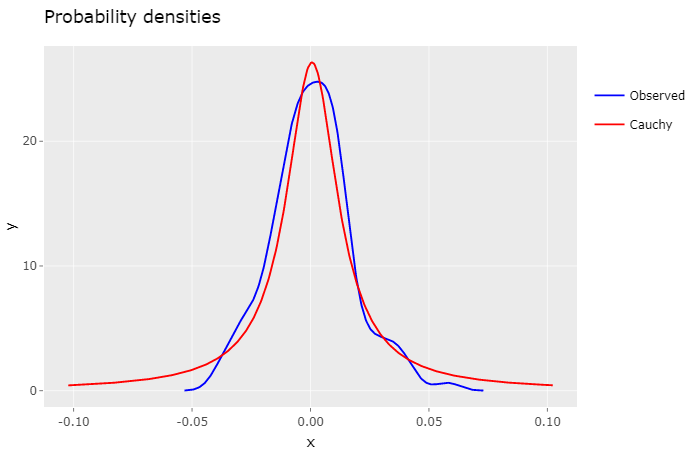
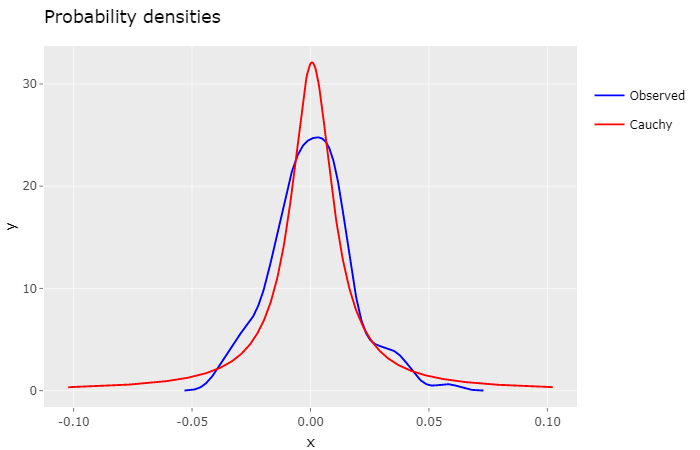
2019-12-23-stock-option-pricing-inference.md - Updating analysis using MLE - Article conclusions unchanged

diff --git a/_posts/2019-12-23-stock-option-pricing-inference.md b/_posts/2019-12-23-stock-option-pricing-inference.md
@@ -111,13 +111,16 @@ interpolate <- function(df, min, max, n) {
   return (pol)
 }
 
-# measures the difference between two density functions
-dist_diff <- function(dist1, dist2) {
-  start <- max(min(dist1[["x"]]), min(dist2[["x"]]))
-  end <- min(max(dist1[["x"]]), max(dist2[["x"]]))
-  pol1 <- interpolate(dist1, start, end, 511)
-  pol2 <- interpolate(dist2, start, end, 511)
-  return (sqrt(sum((pol1[["y"]] - pol2[["y"]]) ^ 2) / length(pol1[["y"]])))
+# simple numeric maximum likelihood estimation
+# (resolution reffers to that of daily log returns)
+mle <- function(dist, x) {
+  min_x <- min(x)
+  max_x <- max(x)
+  resolution <- 10000
+  n = (max_x - min_x) * resolution
+  rev <- interpolate(data.frame(x = dist$x, y = dist$y), min_x, max_x, n)
+  indexes = sapply(x, function (x) { return ((x - min_x) * resolution + 1) })
+  return (log(prod(rev$y[indexes])))
 }
 
 ```
@@ -126,15 +129,15 @@ With these functions I developed a simple brute force script to find the Gaussia
 
 ```r
 
-minErr <- Inf
+max_mle <- -Inf
 d_norm <- c()
 
 for(k in seq(0.001, 0.1, by = 0.0001)) {
   dist <- dgauss(k, mean(x), -6 * sd(x), 6 * sd(x))
-  err <- dist_diff(dist, d_real)
-  if (err < minErr) {
+  val <- mle(dist, x)
+  if (val > max_mle) {
     d_norm <- dist
-    minErr <- err
+    max_mle <- val
   }
 }
 
@@ -155,7 +158,7 @@ ggplotly(p)
   <br>
 </p>
 
-Both densities display a similar shape, but it's apparent that the Gaussian density decreases faster than the observed density.
+Both densities display a similar shape, but it's perceptible that the Gaussian density decreases marginally faster than the observed density.
 
 Despite the fact that the Gaussian distribution is widely used in fianacial models, it has some well known pitfalls, namely its inability to encompass fat tails observed in historical market data. As a result it will fail accurately describe extreme volatility events, which can lead to possibly underpriced options.
 
@@ -182,15 +185,15 @@ The brute force fitting script is the same as the previous one, replacing the ca
 
 ```r
 
-minErr <- Inf
+max_mle <- -Inf
 d_cauchy <- c()
 
 for(k in seq(0.001, 0.1, by = 0.0001)) {
   dist <- dcauchy(k * (sqrt(2/pi)), mean(x), -6*sd(x), 6*sd(x))
-  err <- dist_diff(dist, d_real)
-  if (err < minErr) {
+  val <- mle(dist, x)
+  if (val > max_mle) {
     d_cauchy <- dist
-    minErr <- err
+    max_mle <- val
   }
 }
 
@@ -211,7 +214,7 @@ ggplotly(p)
   <br>
 </p>
 
-Intuitively, by looking at this plot, it feels that the Cauchy density isn't as much as a good fit as the Gaussian density. Indeed, it has a fitting error 1.461 times higher than the Gaussian density.
+Intuitively, by looking at this plot, it feels that the Cauchy density isn't as much as a good fit as the Gaussian density. Indeed, the log-likelihood ratio of the Gaussian Model to the Cauchy Model is 7.5107, quite significant.
 
 The general consensus for the Cauchy distribution is that it has too fat tails, which in our case may lead to overpriced options. Nevertheless, it can be very useful for defining a high volatility scenario for risk analysis.
 
@@ -230,11 +233,13 @@ To accomplish that I defined, yet again, more auxiliary functions:
 
 # generates random samples for a probability density
 dist_samples <- function(dist, n) {
-  return (approx(
+  samples <- (approx(
     cumsum(dist$y)/sum(dist$y),
     dist$x,
-    runif(n, min=min(dist$y)/sum(dist$y))
+    runif(n)
   )$y)
+  samples[is.na(samples)] <- dist$x[1]
+  return (samples)
 }
 
 # calculates the expected value of a probability density
@@ -295,7 +300,7 @@ ggplotly(p)
   <br>
 </p>
 
-As speculated, actual market prices are above the Gaussian model prices (underpriced), and below the Cauchy model prices (overpriced). The Gaussian model came really close to the actual option prices, which makes sense, since it's fitting error to the observed density was much lower.
+As speculated, actual market prices are slightly above the Gaussian model prices (underpriced), and below the Cauchy model prices (overpriced). The Gaussian model came really close to the actual option prices, which makes sense, since it's likelihhod to the observed density was much higher.
 
 So after analysing this plot I had an idea, since this final script can take any probability density to calculate option prices, what if I used the observed density estimate instead, would it yield better, more accurate option prices?
 
@@ -332,28 +337,22 @@ In fact, to my surprise, it did. Visually the lines appear to be on top of each 
 {:.centered .w60 .basic-table}
 | Model     | σ      |
 | --------- | ------ |
-| Gaussian  | 0.0620 |
-| Cauchy    | 0.1939 |
-| Empirical | 0.0346 |
+| Gaussian  | 0.0463 |
+| Cauchy    | 0.1369 |
+| Empirical | 0.0290 |
 
 Conclusion
 ============
 
 The "empirical" model turned out to be the one that best approximates market prices, for this particular stock (PETR4) in the B3 stock exchange. Market option prices are determined by automated trading systems, usually employing much more sophisticated techniques than the one presented here, in real-time, almost instantaneously reflecting price shifts of the underlying stock. Even so, this simplified approach yielded great results, worth exploring more deeply.
 
-<b>Addendum</b>
-
-I submitted my blog post on Hacker News and it received a lot of attention [there](https://news.ycombinator.com/item?id=21872222). One comment correctly pointed out that a more standard technique for fitting probability distributions is to use [maximum likelihood estimation (MLE)](https://en.wikipedia.org/wiki/Maximum_likelihood_estimation), instead of the least squares regression approach that I used. So I ran the analysis again and indeed, using MLE, both models improved significantly:
-
-{:.centered .w60 .basic-table}
-| Model     | σ      |
-| --------- | ------ |
-| Gaussian  | 0.0473 |
-| Cauchy    | 0.1443 |
-
-Even so, the main conclusions of this article holds, the Gaussian model yielded underpriced options, and the Cauchy model overpriced options, when compared to actual market prices.
-
 ---
+
+<b>Notes</b>
+
+* I submitted this article on Hacker News and it received a lot of attention [there](https://news.ycombinator.com/item?id=21872222). One comment correctly pointed out that the standard technique for fitting probability distributions is to use [maximum likelihood estimation (MLE)](https://en.wikipedia.org/wiki/Maximum_likelihood_estimation), instead of the least squares regression approach that I originally employed. So I ran the analysis again using MLE, observed improved results for both models, and update the code and plots.
+* I also fixed a minor issue in the function that generates random samples for probability densities, and recalculated the "empirical" model standard deviation.
+* For reference you can find the original article [here](https://github.com/TCGV/blog/blob/dd050b00cfcfd5b487daa4ee2438c099c5164eee/_posts/2019-12-23-stock-option-pricing-inference.md).
 
 <b>Sources</b>
 
